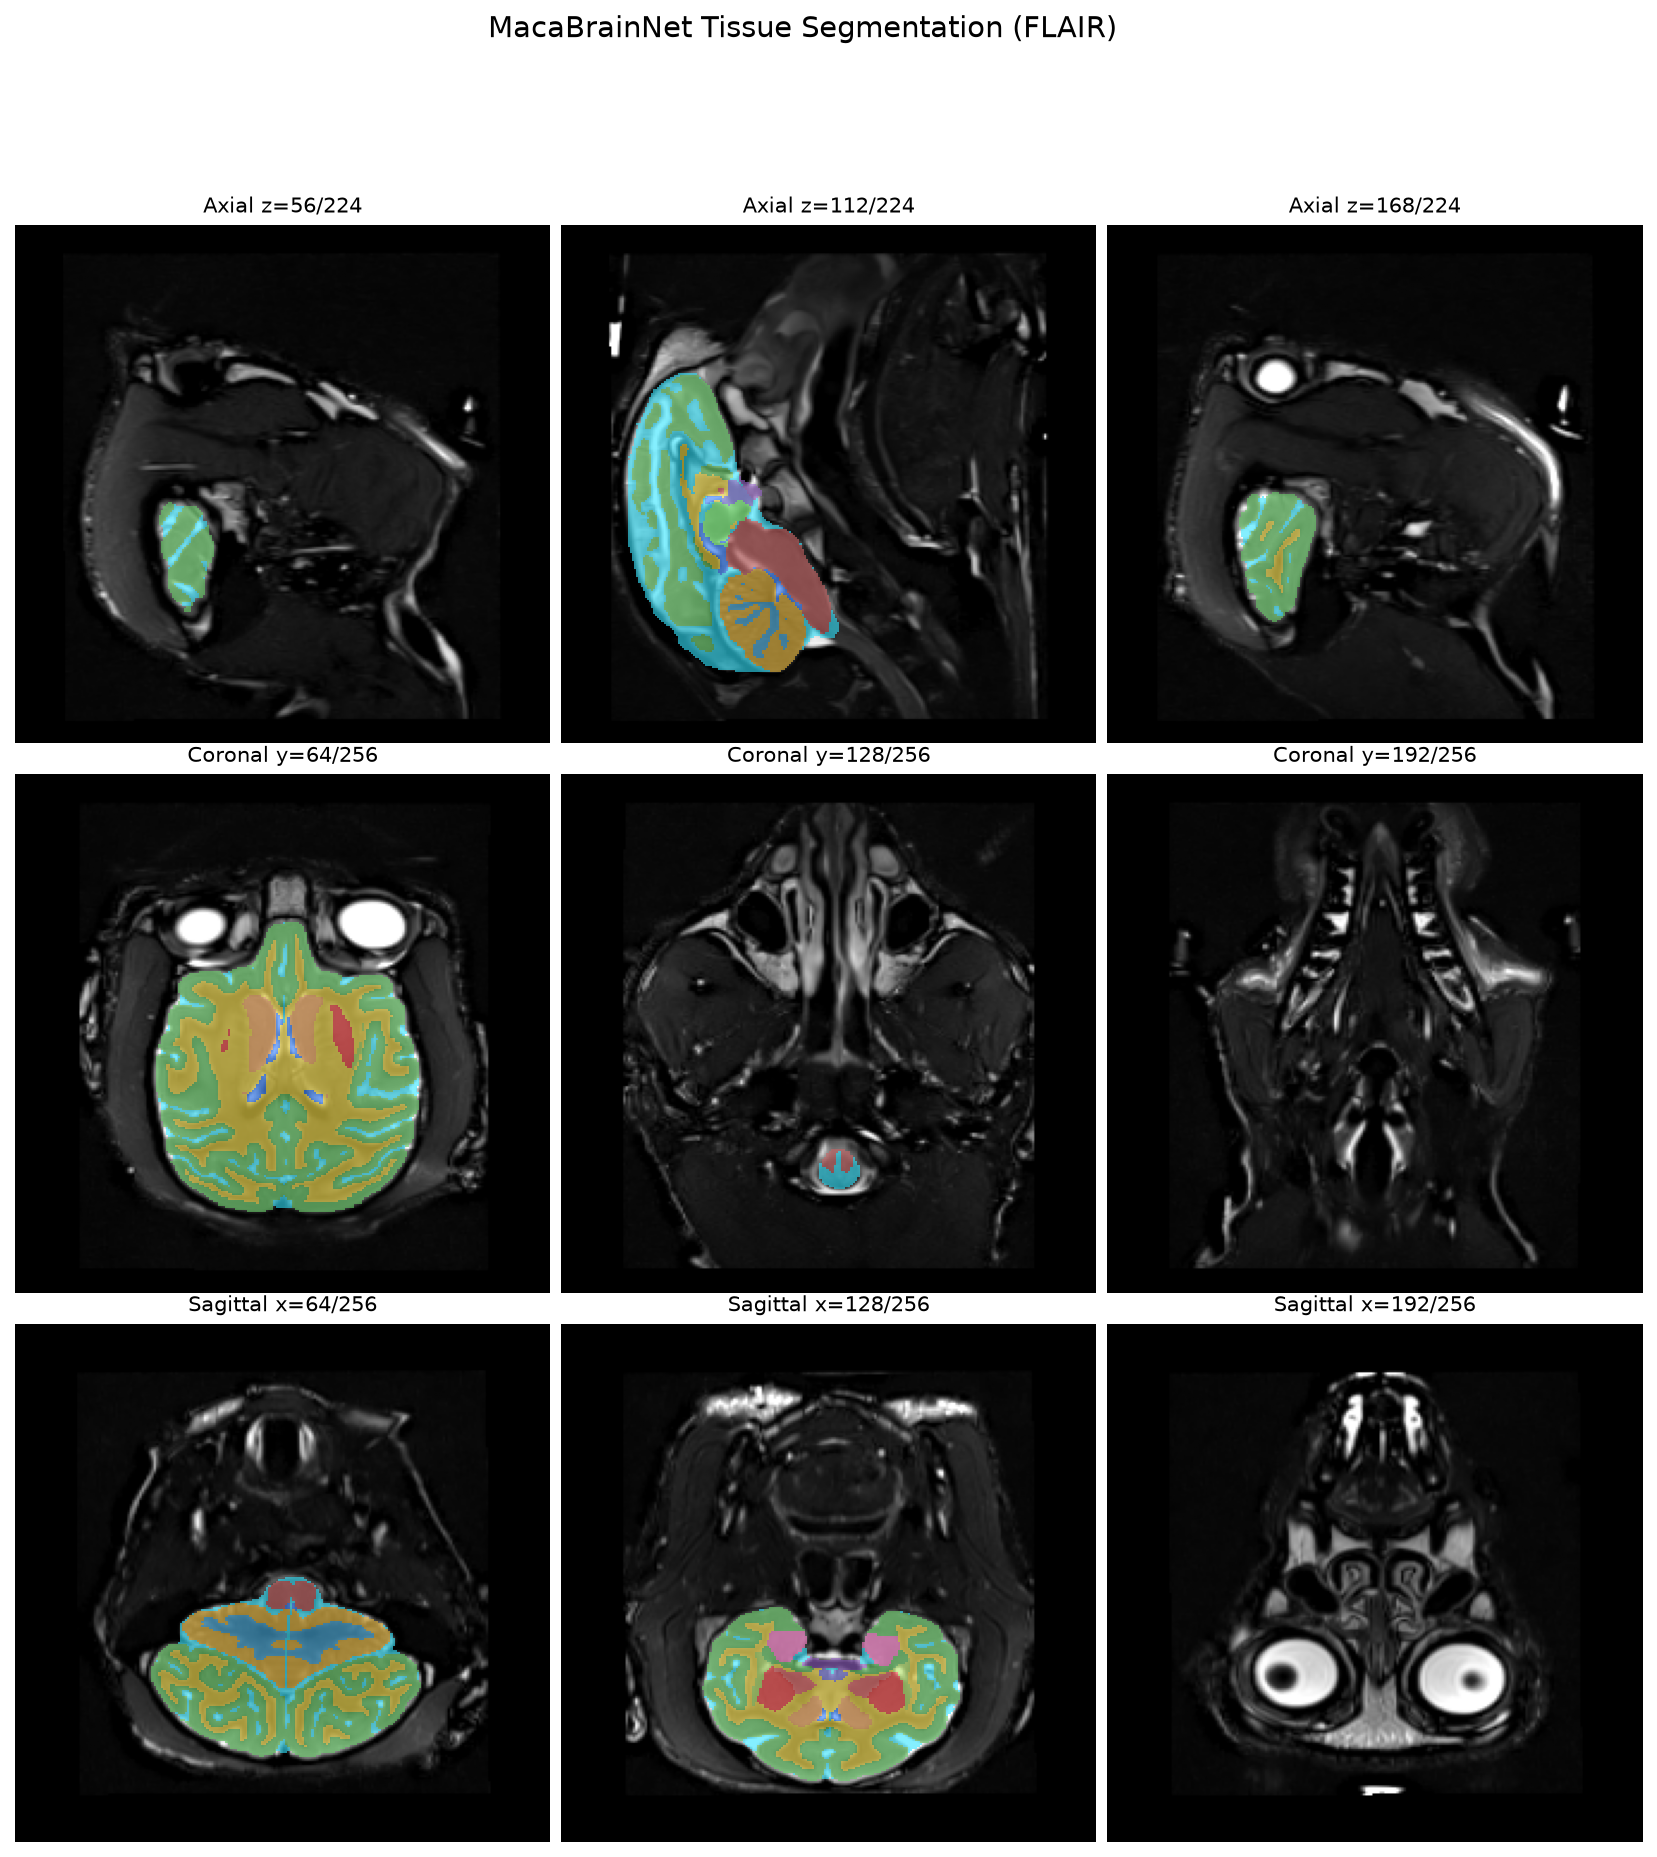
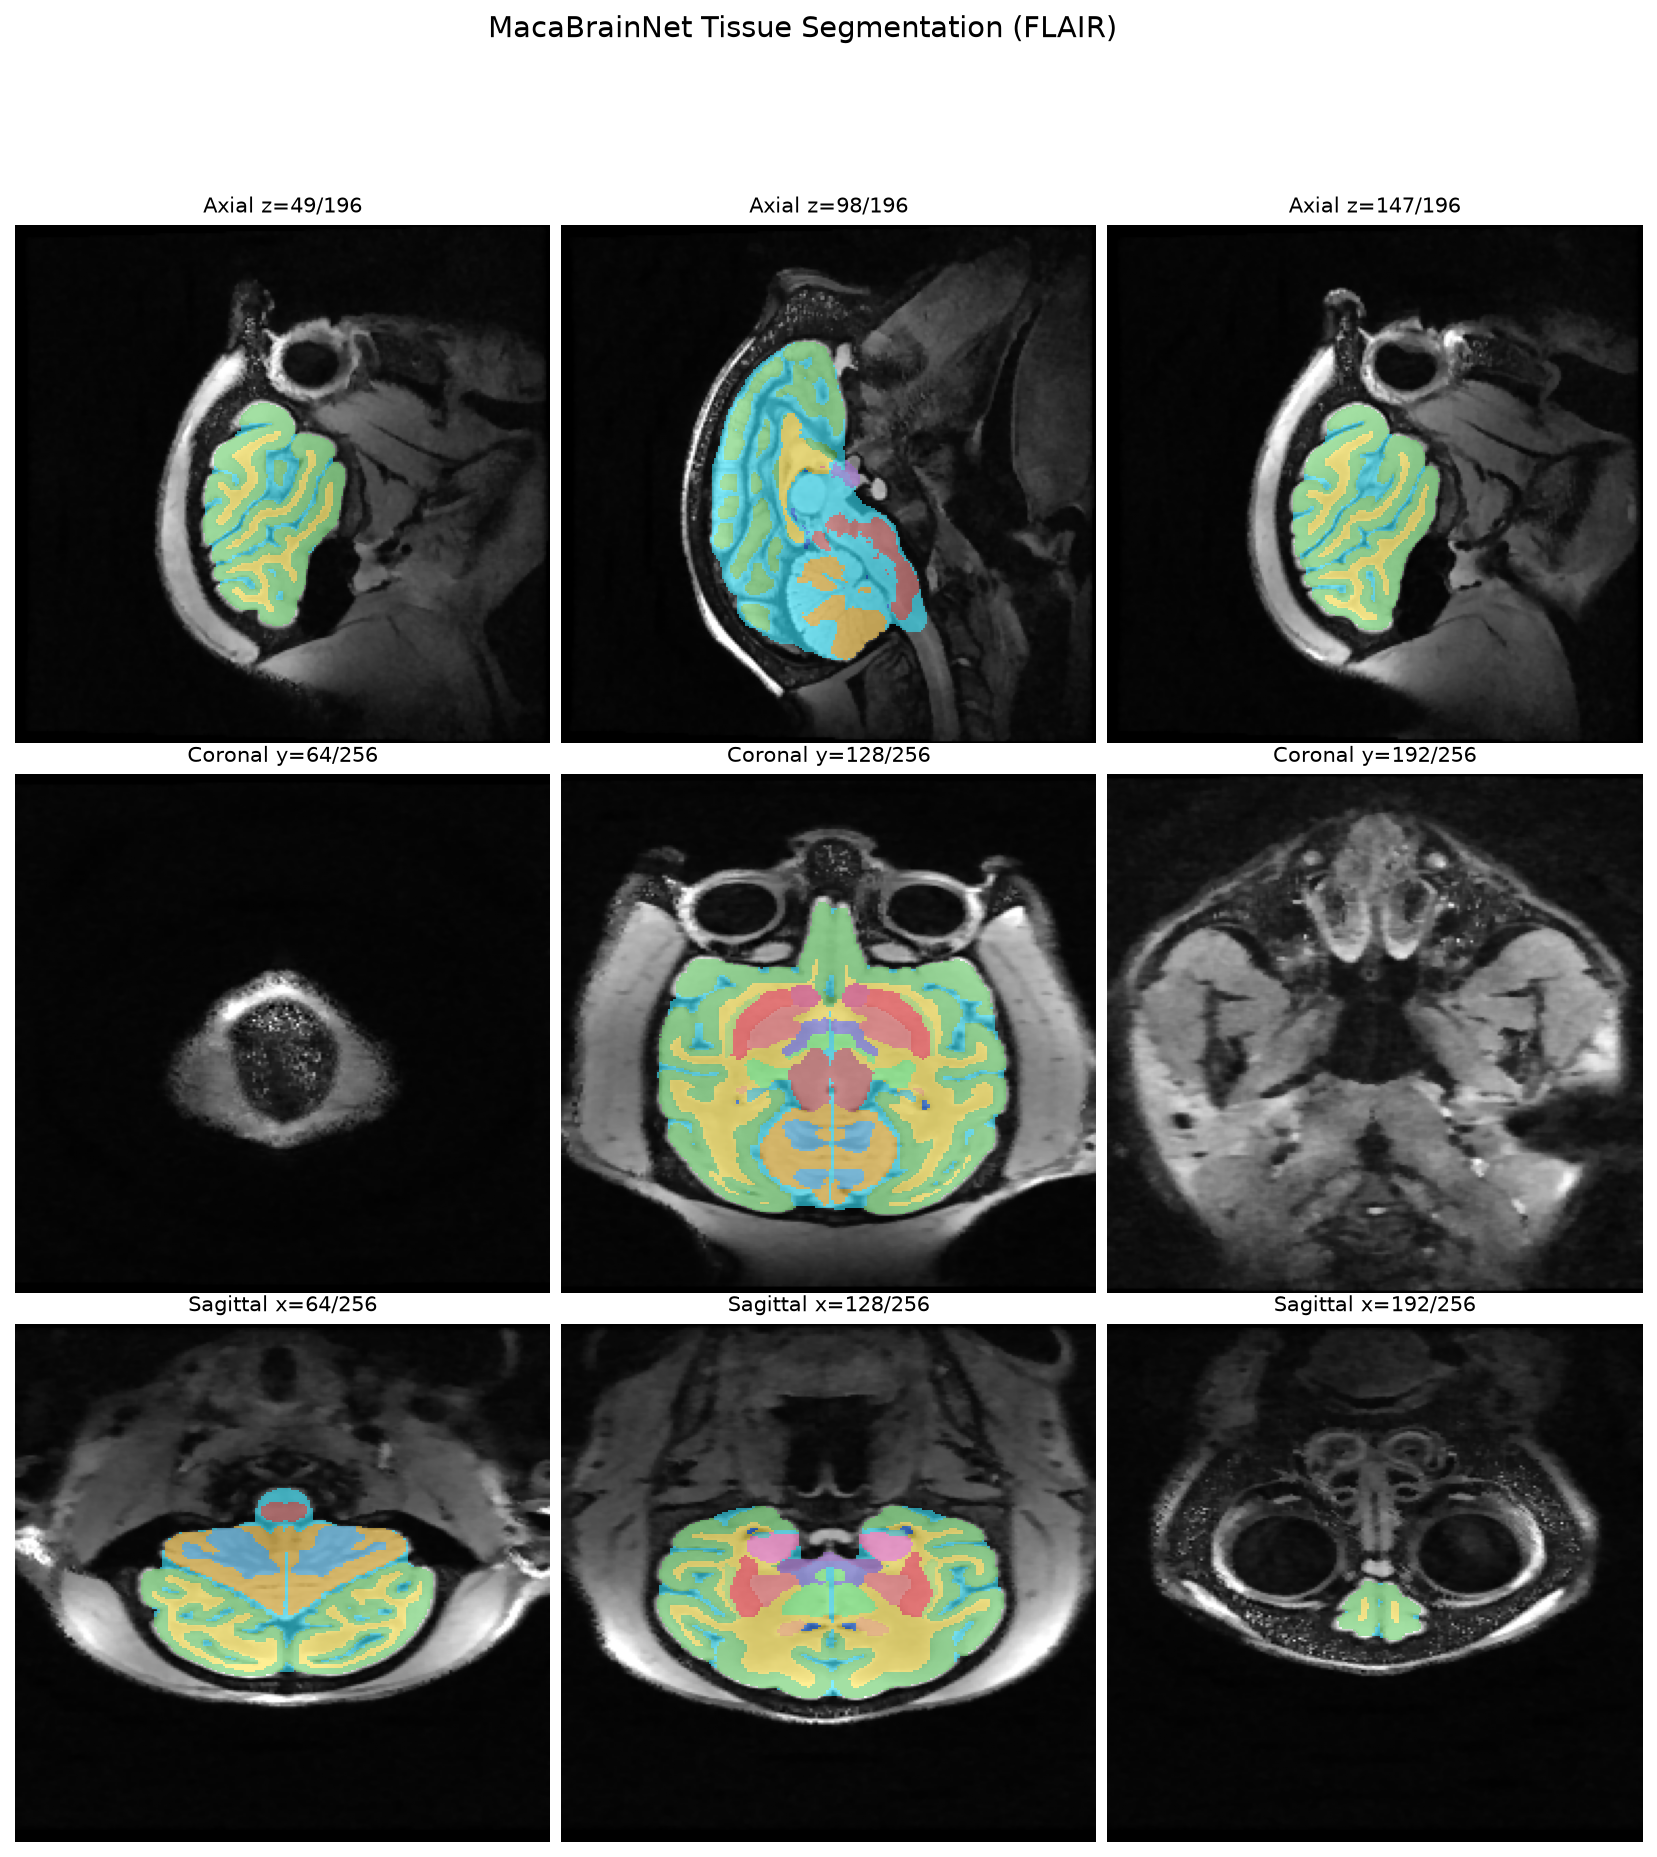
Replace FLAIR example with real T2_FLAIR image
Previous FLAIR file was incorrectly a T2w image. Replace with genuine
T2 FLAIR sequence and regenerate overlay visualizations.

diff --git a/src/make_overlay.py b/src/make_overlay.py
@@ -175,9 +175,9 @@ if __name__ == "__main__":
         ("sub-032144_ses-001_run-1_T2w.nii.gz",
          "sub-032144_ses-001_run-1_T2w_brain_mask.nii.gz",
          "sub-032144_ses-001_run-1_T2w_tissue_seg.nii.gz", "T2w"),
-        ("sub-T112927_ses-20190630T203844_FLAIR.nii.gz",
-         "sub-T112927_ses-20190630T203844_FLAIR_brain_mask.nii.gz",
-         "sub-T112927_ses-20190630T203844_FLAIR_tissue_seg.nii.gz", "FLAIR"),
+        ("T2_FLAIR.nii.gz",
+         "T2_FLAIR_brain_mask.nii.gz",
+         "T2_FLAIR_tissue_seg.nii.gz", "FLAIR"),
     ]
 
     for img, mask, seg, modality in tasks: